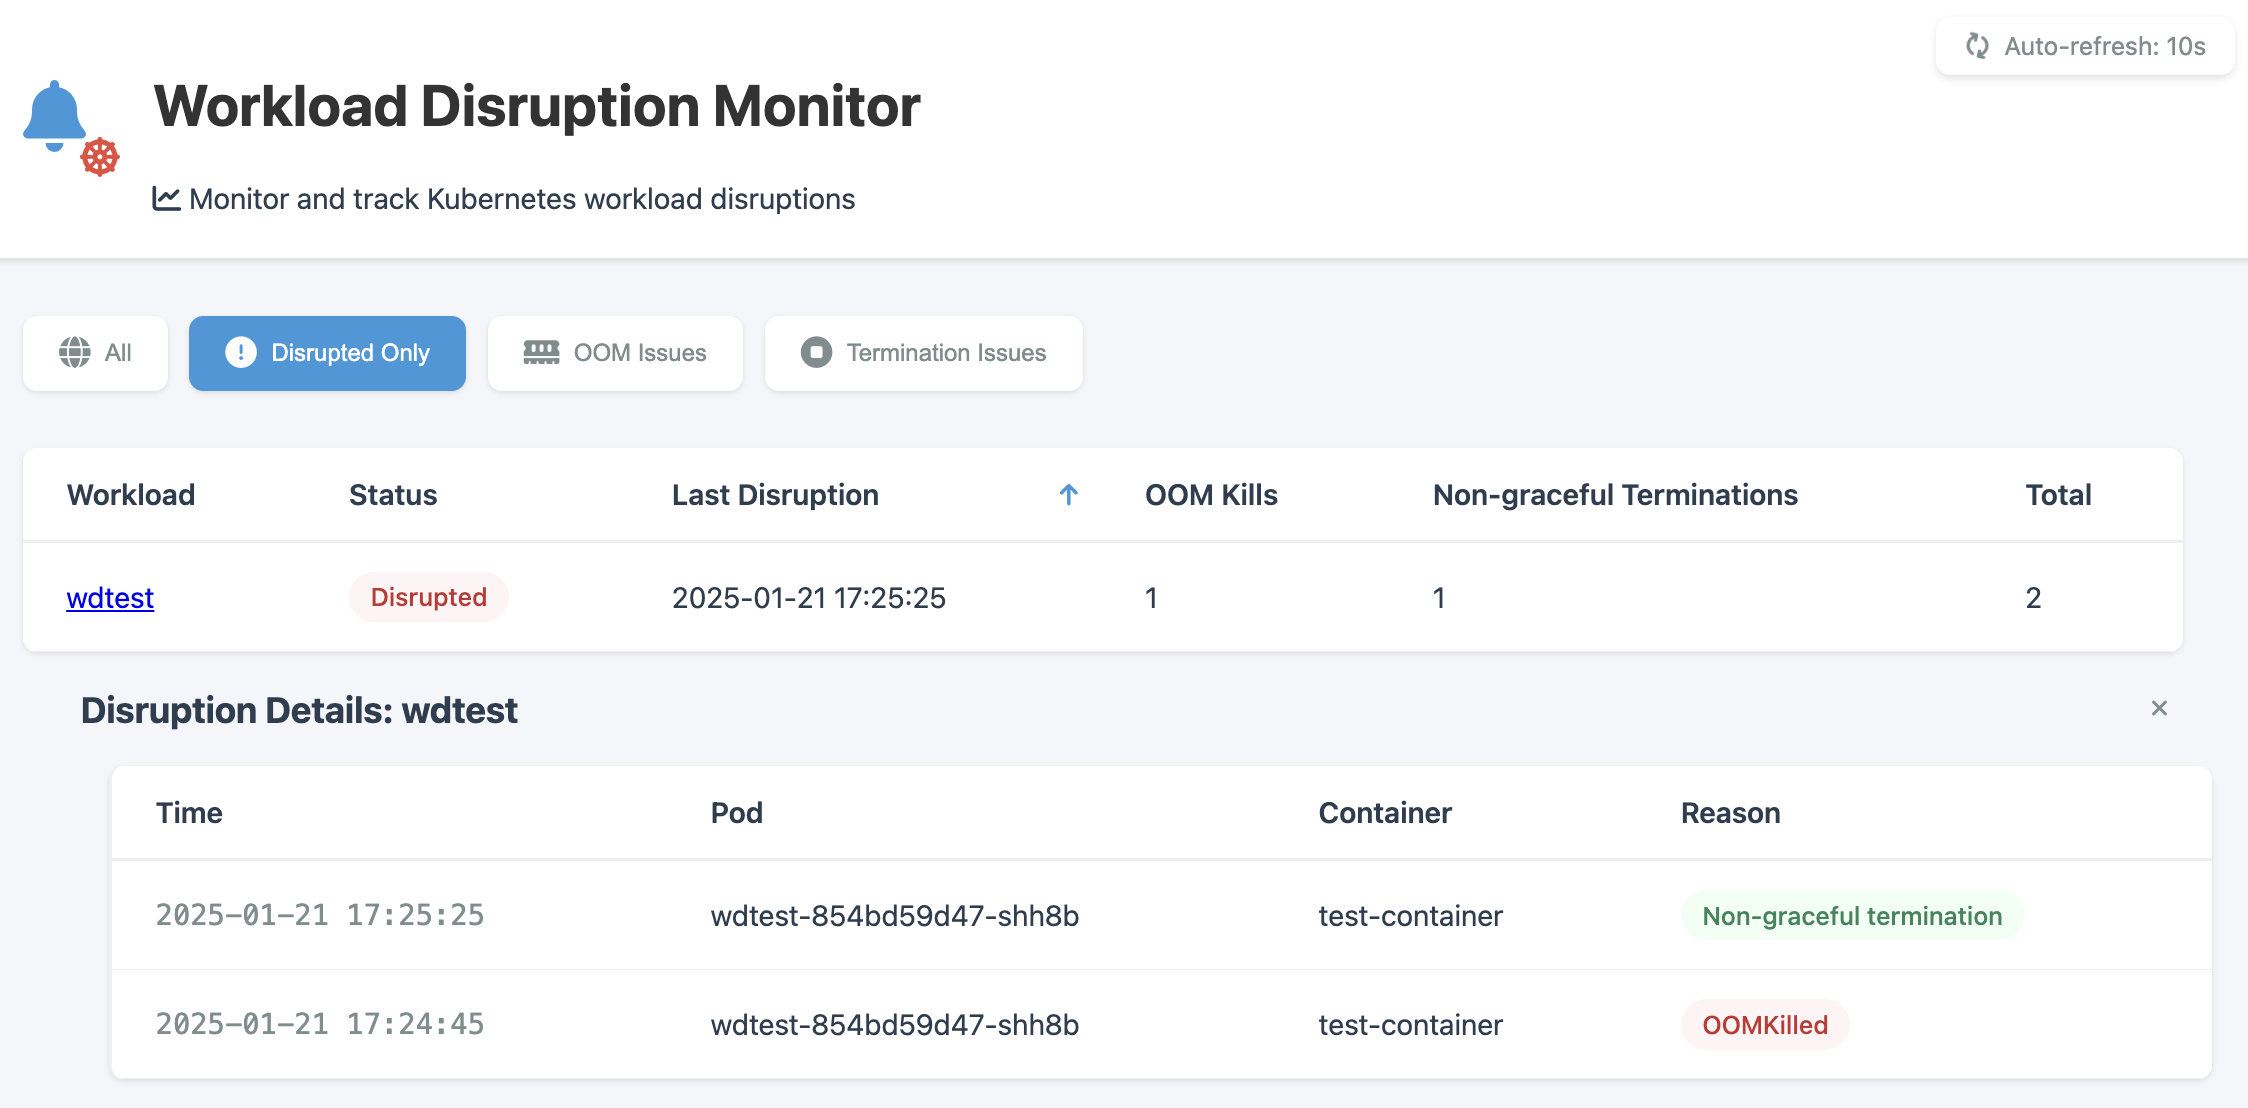
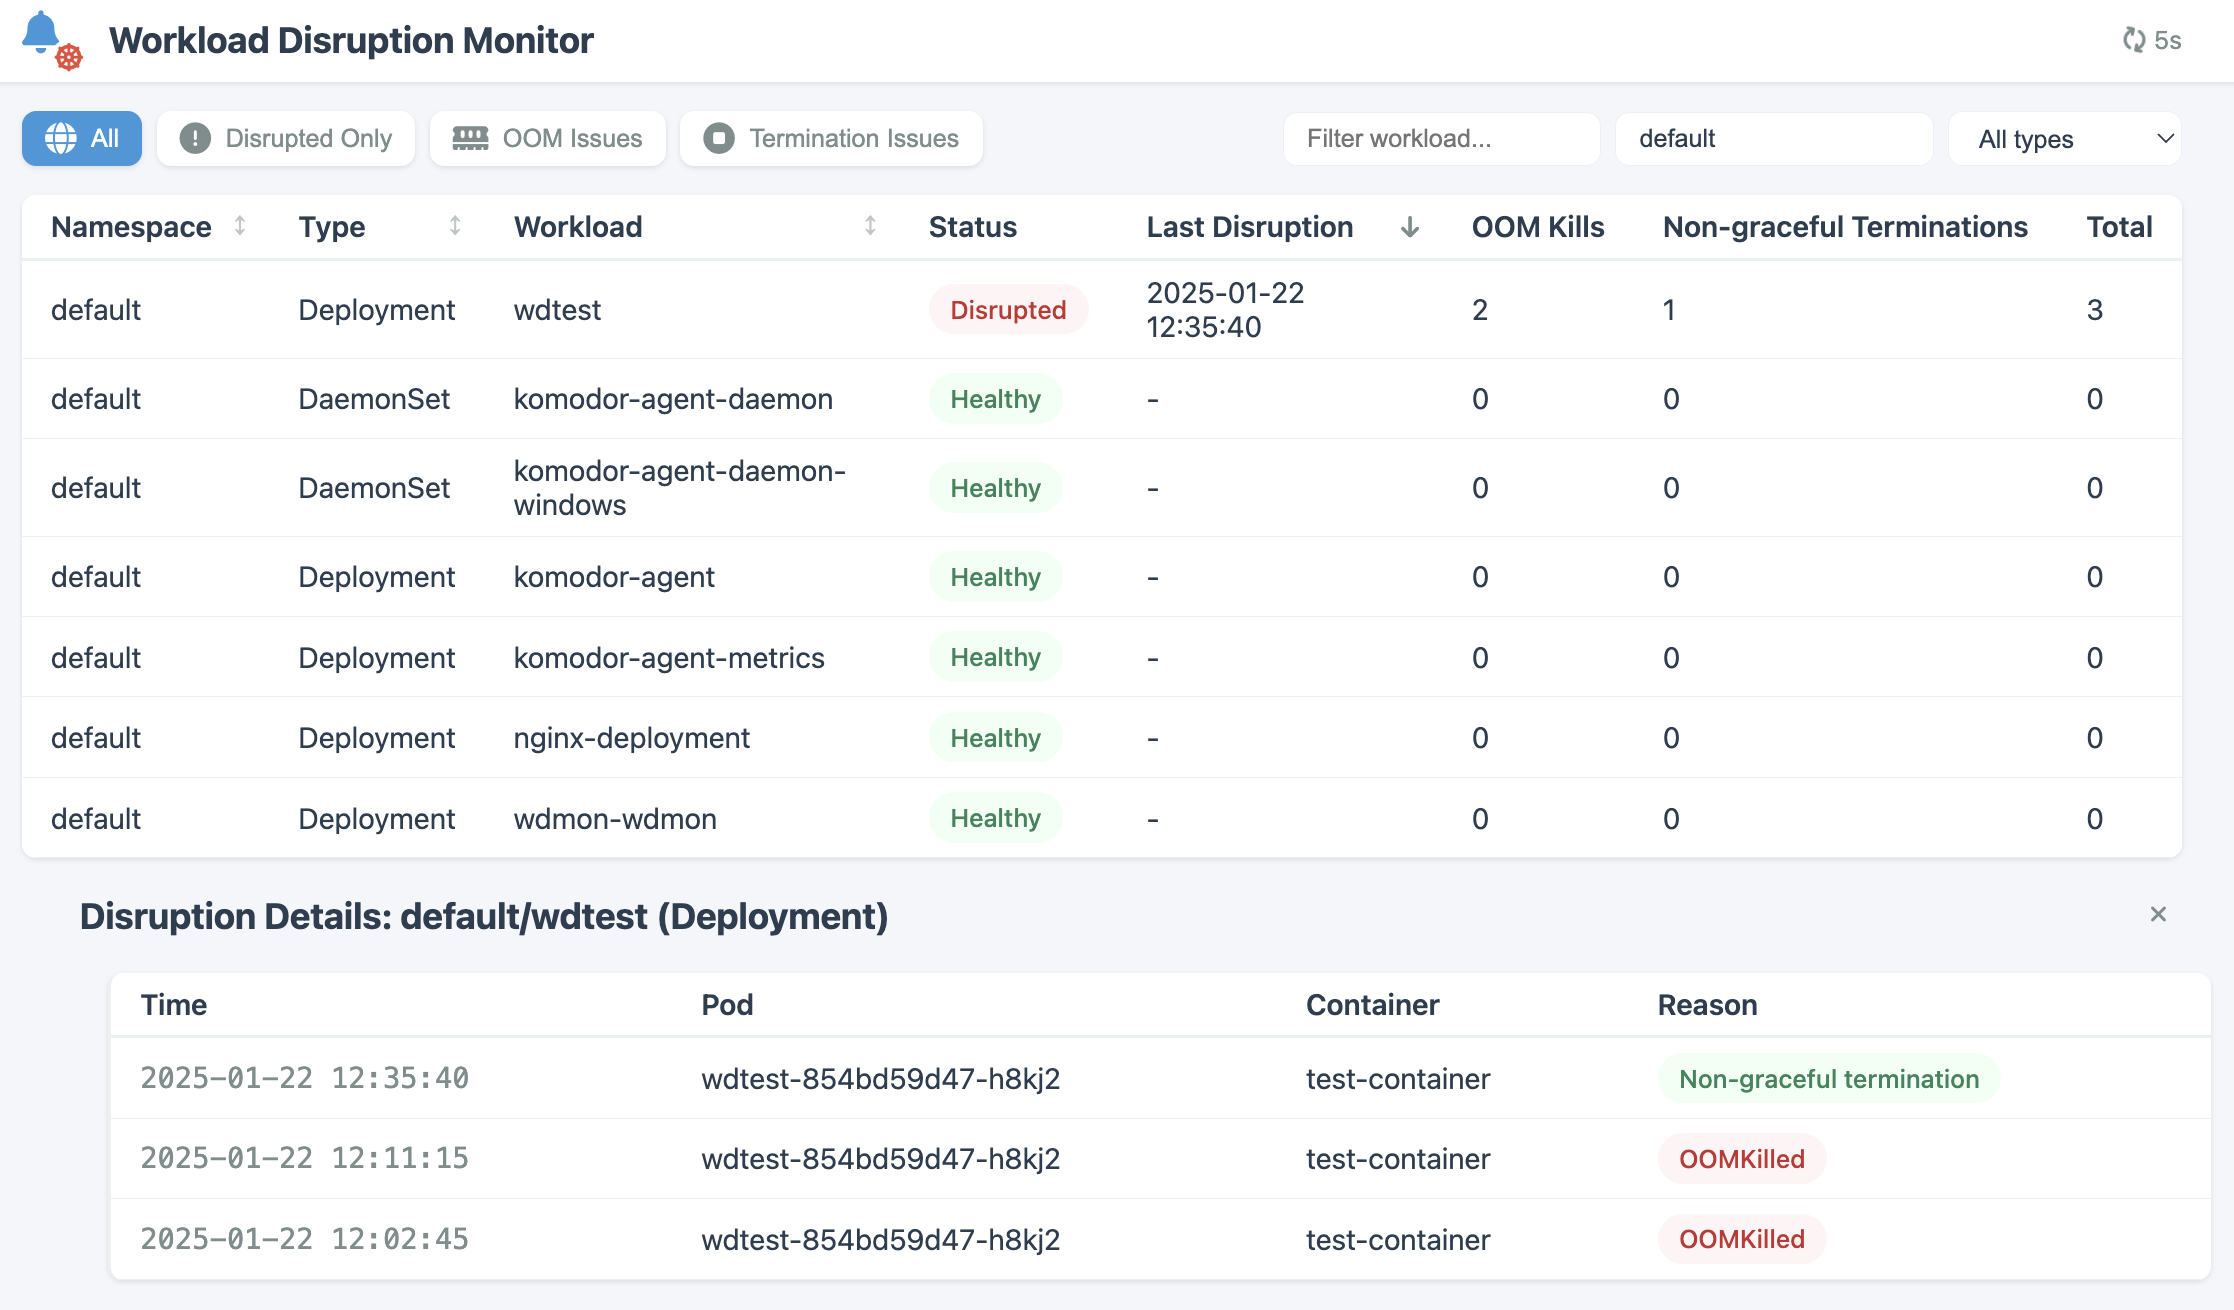
Update README

diff --git a/README.md b/README.md
@@ -12,9 +12,9 @@ A tool for real-time monitoring of Kubernetes workload disruptions, such as non-
   - Forced termination by OOM-killer (Notice that with cgroups v2, this will happen only when the main container process is OOM-killed, because when a child process is OOM-killed the container remains running)
   - Forced termination by kubelet (SIGKILL) after grace period (e.g., because SIGTERM is not forwarded to child processes, or because the termination grace period is too short)
 - Basic web interface with:
-  - View of all workloads (Note: currently limited to Deployments in the 'default' namespace), with their disruption statistics, by disruption types (OOM, Non-graceful terminations)
+  - View of all workloads, with their disruption statistics, by disruption types (OOM, Non-graceful terminations)
   - Basic filtering, sorting
-  - Detailed view of disruption history per workload
+  - Drill-down to view the disruption history per workload
 
 ## (Optional) Build and Push
 
